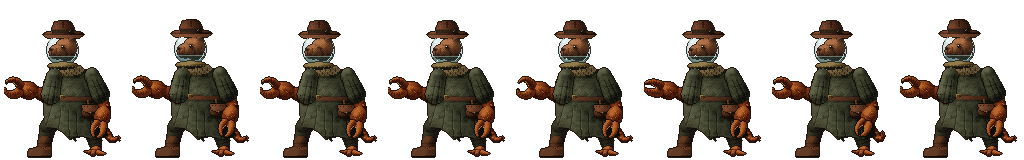
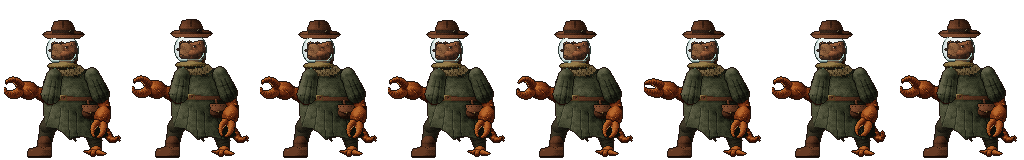
fix: Phor's head reads as a capybara and sits on his neck
Phor Calesta is a craybara (crayfish + capybara): his head is now a blunt,
boxy capybara head with a square muzzle, nostrils high on it and small eyes
and ears set high, carried low and forward on a thick neck that rises from
the collar ring; the water in the dome laps round the neck. Same sheet format.

diff --git a/tools/artgen/townhall_cast.py b/tools/artgen/townhall_cast.py
@@ -4,13 +4,17 @@ they are). Scale 1, origin bottom-centre, soles on the frame's bottom rows; 8 ca
 them with holds).
 
   phor      128x160, soles on y 156 -- Phor Calesta, divinographer (TownhallScene, right of the stair; GodgraveyardScene):
-            a Craybara -- a capybara's blunt head in a round diving-helmet glass dome (half full of his home water, a
-            brass neck ring), a brown leather fedora on the dome, a pleated ruff, a long moss-green coat with short
+            a Craybara (crayfish + capybara) -- an unmistakable capybara's head in near-profile: a big blunt box with a
+            flat top, a deep square muzzle with the nostrils high on its top corner, a small placid half-lidded eye set
+            high and far back, small round ears, coarse reddish-brown fur, the dark morrillo gland of a grown male on
+            the snout -- carried low and forward on a short thick neck inside a round diving-helmet glass dome (his home
+            water lapping round the neck under the chin, a bronze neck ring),
+            a brown leather fedora on the dome, a pleated ruff, a long moss-green coat with short
             sleeves, a belt with a brass buckle and a leather satchel; huge orange crayfish forearms and claws (the near
             one raised, open), one booted foot and one bare crayfish foot, a segmented tail behind. Turned to the
             viewer's left.
-            0 rest  1 inhale  2 blink  3-5 a bubble leaves his nostril and rises through the dome water (4: the raised
-            claw opens wider, 5: it snips shut)  6 the tail tip flicks, the hanging claw twitches  7 exhale
+            0 rest  1 inhale  2 blink  3-5 a bubble rises from under his chin through the dome water and breaks (4: the
+            raised claw opens wider, 5: it snips shut)  6 the tail tip flicks, the hanging claw twitches  7 exhale
   clerk     128x160, soles on y 156 -- the Townhall clerk (TownhallInteriorScene): a short, scruffy, tired bureaucrat --
             wild brown hair under a battered pillbox hat with a lit candle stuck on it (wax running down the hat), round
             brass-rimmed spectacles, a stubbled scowl, a grubby shirt and cravat, a brown waistcoat with a watch chain,
@@ -119,7 +123,8 @@ def sheet(frames, path):
 
 
 # ================================================================================================= PHOR CALESTA
-FUR    = R('#1c0e07 #2a150b #3a1e0f #4b2814 #5d3219 #6f3d1f #814926 #92552e #a26338 #b07244')
+FUR    = R('#1a0d07 #28140b #371c10 #472515 #582f1a #693920 #7a4427 #8a4f2e #995b36 #a6683f')
+MUZ    = R('#2a170e #3b2214 #4e2e1b #613b22 #73482a #845533 #93623c #a17046')
 SHELLC = R('#1e0a05 #2e1007 #40170a #52200d #642a10 #763414 #883f18 #994b1d #a85823 #b6672d')
 GCOAT  = R('#0e0e09 #15160f #1c1e14 #24271a #2d3020 #363927 #40422e #4a4c36 #55563f #626149')
 GTROU  = R('#0e0d09 #15130d #1c1a12 #242117 #2d291d #363123 #403a2a')
@@ -131,7 +136,8 @@ WATER  = (58, 104, 98)
 GLASS  = (196, 222, 214)
 PUPIL  = (16, 10, 8)
 
-MP = {'fur': mat(FUR, 'pelt', 0.24, 0.05), 'shell': mat(SHELLC, 'shell', 0.2, 0.55), 'coat': mat(GCOAT, 'worn', 0.17),
+rig.TEX['coarse'] = lambda x, y: ((rig.nF(x * 1.6, y * 0.7) - 0.5) * 0.13 + (rig.nM(x * 0.9, y * 0.9) - 0.5) * 0.06)   # short bristly fur
+MP = {'fur': mat(FUR, 'coarse', 0.2, 0.05), 'muzzle': mat(MUZ, 'coarse', 0.22, 0.05), 'shell': mat(SHELLC, 'shell', 0.2, 0.55), 'coat': mat(GCOAT, 'worn', 0.17),
       'trou': mat(GTROU, 'fabric', 0.18), 'ruff': mat(RUFF, 'fabric', 0.28), 'leather': mat(LEATH, 'leather', 0.2, 0.3),
       'hat': mat(LEATH, 'felt', 0.2, 0.08), 'brass': mat(BRONZE, 'metal', 0.24, 0.8), 'boot': mat(LEATH[:-2], 'leather', 0.18, 0.5)}
 
@@ -226,38 +232,87 @@ def bell_sleeve(r, sh, end, r0, r1, g, lift=0.0, m=None):
         r.darken(x, y, 0.18)
 
 
+def boxy(r, cx, cy, rx, ry, p, m, lift=0.0, group=None, vfun=None, rot=0.0, zk=1.2):
+    """a superellipsoid (|u|^p + |w|^p <= 1): a rounded box -- flat faces, softly rounded edges and corners"""
+    oid = r.new(group)
+    c, s = math.cos(rot), math.sin(rot)
+    R = max(rx, ry) * 1.1 + 2
+    for y in range(int(cy - R), int(cy + R) + 1):
+        for x in range(int(cx - R), int(cx + R) + 1):
+            dx, dy = x + 0.5 - cx, y + 0.5 - cy
+            u, w = (dx * c + dy * s) / rx, (-dx * s + dy * c) / ry
+            f = abs(u) ** p + abs(w) ** p
+            if f > 1: continue
+            z = (1 - f) ** (1 / p)
+            gu, gw = math.copysign(abs(u) ** (p - 1), u), math.copysign(abs(w) ** (p - 1), w)
+            n = norm((gu * c - gw * s, gu * s + gw * c, z * zk))
+            v = r.shade(m, n, lift) + (vfun(x, y, u, w) if vfun else 0)
+            r.put(x, y, m, v, oid)
+    return oid
+
+
 def phor_head(r, hx, hy, P):
-    """the capybara head, facing the viewer's left (hx, hy = the cranium's centre)"""
+    """a capybara's head in near-profile, facing the viewer's left (hx, hy = the head's middle): one big blunt box --
+    a flat top running almost level from the ears to the nose, a deep, square, heavy muzzle (a touch lighter) squared
+    off at the front, the nostrils high on its top corner, the small mouth low at its front; the heavy cheek under a
+    small round eye set high and far back, small round ears high on the skull, coarse short reddish-brown fur; calm and
+    half-lidded. It sits inside the dome with clear glass round it, so its silhouette reads against the glass."""
     blink = P.get('blink')
-    fv = lambda x, y, u, w: (-0.14 if w > 0.55 else 0) + (0.06 if w < -0.5 else 0)
-    r.ellipsoid(hx + 1.5, hy + 7.0, 8.5, 5.4, MP['fur'], lift=-0.14, group='pjaw')                 # the heavy jowl
-    r.ellipsoid(hx, hy, 10.6, 9.6, MP['fur'], group='pskull', vfun=fv)
-    r.ellipsoid(hx - 8.0, hy + 3.6, 8.4, 7.0, MP['fur'], rot=-0.12, lift=0.03, group='psnout', vfun=fv)  # the blunt muzzle
-    r.ellipsoid(hx - 12.6, hy + 4.0, 4.0, 5.8, MP['fur'], lift=0.07, group='psnout', vfun=fv)         # its square front
-    r.ellipsoid(hx + 6.0, hy - 9.0, 3.0, 2.6, MP['fur'], lift=0.04, group='pear')                    # a small round ear
-    for (x, y, c) in ((hx + 5, hy - 9, FUR[2]), (hx + 6, hy - 9, FUR[1]), (hx + 5, hy - 8, FUR[3]), (hx + 7, hy - 10, FUR[7])):
+    fur = MP['fur']
+    coarse = lambda x, y, u, w: (-0.08 if h32(x, y >> 1, 61) % 11 == 0 else 0) + (0.05 if h32(x, y, 62) % 13 == 0 else 0)
+    top = hy - 7.0                                                                       # the flat top line
+    # the short, thick neck: as wide as the back half of the head, rising out of the collar ring (clipped at the ring
+    # so it never spills over the ruff) straight into the back and underside of the skull -- solid fur, no glass between
+    neck_v = lambda u, sd: (-0.14 if sd > 0.55 else 0) + (0.06 if sd < -0.5 else 0) + (-0.1 if (int(u * 14) + int(sd * 3)) % 4 == 0 else 0)
+    r.tube((hx + 4.5, hy + 1.5), (hx + 2.5, hy + 17.5), 7.8, 8.4, fur, group='pneck', folds=neck_v, clip=lambda x, y: y <= hy + 16.5)
+    r.ellipsoid(hx + 0.5, hy + 6.8, 6.4, 4.2, fur, lift=-0.05, group='pneck')                        # the throat under the jaw
+    r.ellipsoid(hx + 9.0, top + 0.6, 1.9, 1.9, fur, lift=-0.24, group='pearF')                       # the far ear
+    boxy(r, hx + 1.0, hy - 0.5, 10.6, 6.5, 3.4, fur, lift=0.05, group='pskull', rot=-0.03,
+         vfun=lambda x, y, u, w: coarse(x, y, u, w) + (0.05 if w < -0.55 else 0) - (0.1 if u > 0.72 else 0) - max(0.0, w - 0.2) * 0.2)
+    boxy(r, hx - 7.4, hy + 1.0, 5.7, 7.6, 5.0, MP['muzzle'], lift=0.1, group='psnout', rot=-0.03,
+         vfun=lambda x, y, u, w: coarse(x, y, u, w) * 0.7 - max(0.0, w - 0.35) * 0.3 + (0.05 if w < -0.6 else 0))   # deep and square
+    r.ellipsoid(hx + 1.5, hy + 3.6, 6.6, 3.7, fur, lift=-0.06, group='pjaw', vfun=coarse)            # the heavy cheek
+    # the near ear: small and round, high at the back of the skull, dark inside
+    ax, ay = hx + 6.6, top + 0.4
+    r.ellipsoid(ax, ay, 2.5, 2.3, fur, lift=0.04, group='pear')
+    for (x, y, c) in ((ax - 0.5, ay + 0.5, FUR[1]), (ax + 0.5, ay + 0.5, FUR[2]), (ax - 0.5, ay - 0.5, FUR[3]), (ax - 1.5, ay - 1.5, FUR[8])):
         r.fixed(x, y, c)
-    # the nose pad high on the muzzle's front, the nostril slit, the split upper lip, the mouth line
-    nx, ny = int(hx - 16), int(hy + 1)
-    for (dx, dy, c) in ((0, 0, FUR[1]), (1, 0, FUR[1]), (2, 0, FUR[3]), (3, 0, FUR[4]), (0, 1, FUR[0]), (1, 1, FUR[1]), (2, 1, FUR[2]),
-                        (1, -1, FUR[4]), (2, -1, FUR[5]), (3, -1, FUR[6]), (0, -1, FUR[3])):
-        r.fixed(nx + dx, ny + dy, c)
-    for k in range(2, 6): r.fixed(nx + 1, ny + k, FUR[2] if k < 4 else FUR[1])
-    for dx in range(1, 8): r.fixed(nx + dx, ny + 6 + (1 if dx > 5 else 0), FUR[1])
-    r.fixed(nx + 2, ny + 7, FUR[4]); r.fixed(nx + 3, ny + 8, FUR[3])
-    for (x, y) in ((nx + 4, ny + 3), (nx + 6, ny + 2), (nx + 5, ny + 4), (nx + 7, ny + 4)): r.fixed(x, y, FUR[3])  # whisker pores
-    # the eye: small, black, set high on the side of the head, a wet glint, a soft lid above
-    ex, ey = int(hx - 4), int(hy - 2)
+    fx = hx - 13.1                                                                      # the muzzle's blunt front
+    # the nostrils: dark slits high on the top corner of the muzzle (the far one a dot), the nose's top lit
+    for (dx, dy, c) in ((0.6, -5.5, FUR[0]), (0.6, -6.5, FUR[0]), (1.6, -6.8, FUR[0]), (2.6, -7.0, FUR[1]), (1.6, -5.8, FUR[2]),
+                        (4.6, -7.2, FUR[1]), (5.4, -7.2, FUR[2])):
+        r.fixed(fx + dx, hy + dy, c)
+    # the morrillo: the dark, bare scent gland a grown male capybara carries on top of his snout
+    for (dx, c) in ((7.6, FUR[1]), (8.6, FUR[0]), (9.6, FUR[0]), (10.6, FUR[1]), (11.6, FUR[2])):
+        r.fixed(fx + dx, top + 0.2 + (dx - 7.6) * 0.03, c)
+    for (dx, c) in ((8.6, FUR[2]), (9.6, FUR[3]), (10.6, FUR[2])):
+        r.fixed(fx + dx, top + 1.2, c)
+    r.fixed(fx + 9.6, top - 0.6, FUR[4])
+    r.fixed(fx + 2.6, hy - 7.6, MUZ[7]); r.fixed(fx + 0.6, hy - 7.4, MUZ[6])
+    # the cleft lip down the blunt front, the small mouth low on it, the crease of the chin
+    for k in range(4): r.fixed(fx + 0.6, hy - 4.5 + k, MUZ[2] if k < 3 else MUZ[1])
+    for dx in range(0, 4): r.fixed(fx + 0.6 + dx, hy + 4.5 + (1 if dx > 1 else 0), MUZ[0])
+    r.fixed(fx + 1.6, hy + 5.5, MUZ[5])
+    for dx in range(4, 10): r.fixed(fx + dx, hy + 8.0, MUZ[1])
+    for (dx, dy) in ((3, -3), (5, -2), (4, -0.5), (6, -0.5)): r.fixed(fx + dx, hy + dy, MUZ[3])   # whisker pores
+    for k in range(3): r.fixed(fx - 0.4 - k, hy - 1 + k * 0.6, (52, 36, 26))                     # a sparse whisker
+    for k in range(9):                                                                  # the long lip line: from the mouth
+        x, y = fx + 2 + k * 1.1, hy + 5.2 - k * 0.45                                    # corner back under the cheek
+        r.darken(x, y, 0.16); r.darken(x, y + 1, -0.06)
+    # the eye: small, round, set high and far back; the heavy lid half down -- placid
+    ex, ey = int(hx + 1), int(hy - 4)
     if blink:
-        r.fixed(ex - 1, ey + 1, FUR[3]); r.fixed(ex, ey + 1, FUR[2]); r.fixed(ex + 1, ey + 1, FUR[2]); r.fixed(ex + 2, ey + 1, FUR[3])
-        r.fixed(ex, ey, FUR[5]); r.fixed(ex + 1, ey, FUR[5])
+        for dx in range(-1, 2): r.fixed(ex + dx, ey + 1, FUR[1])
+        r.fixed(ex, ey, FUR[5])
     else:
-        for (dx, dy) in ((0, 0), (1, 0), (0, 1), (1, 1), (-1, 1), (2, 1), (0, 2), (1, 2)): r.fixed(ex + dx, ey + dy, PUPIL)
-        r.fixed(ex, ey, (224, 216, 196)); r.fixed(ex + 1, ey + 2, (44, 28, 20))
-        for dx in range(-1, 3): r.fixed(ex + dx, ey - 1, FUR[2])
-    r.fixed(ex + 3, ey + 3, FUR[3]); r.fixed(ex - 2, ey + 3, FUR[7])
-    for (x, y) in ((hx - 3, hy - 8), (hx + 1, hy - 9), (hx - 7, hy - 5), (hx + 3, hy - 6), (hx - 10, hy - 2)):  # lit tufts
-        r.fixed(x, y, FUR[8])
+        for dx in range(-1, 2): r.fixed(ex + dx, ey, FUR[1])                                      # the lid's lash line
+        r.fixed(ex - 1, ey + 1, (196, 184, 162)); r.fixed(ex, ey + 1, PUPIL); r.fixed(ex + 1, ey + 1, (30, 18, 12))
+        r.fixed(ex, ey + 2, (36, 22, 15))
+    r.fixed(ex - 1, ey + 2, FUR[6]); r.fixed(ex - 1, ey + 3, FUR[7]); r.fixed(ex, ey + 3, FUR[7]); r.fixed(ex + 1, ey + 2, FUR[3])
+    r.fixed(ex - 1, ey - 1, FUR[8]); r.fixed(ex, ey - 1, FUR[8]); r.fixed(ex + 1, ey - 1, FUR[7])   # the brow ridge
+    # coarse fur catching the light along the flat top
+    for x in range(int(hx - 13), int(hx + 9), 2):
+        if h32(x, 3) % 3: r.fixed(x, int(top + 0.8 + (x - hx) * 0.03), FUR[9] if x < hx else FUR[8])
 
 
 def phor(P):
@@ -368,7 +423,7 @@ def phor(P):
     for k in range(11):                                                           # the pleats' scalloped lower edge
         x = 47.5 + k * 3.2
         r.fixed(x, U(75) + (1 if k % 2 else 0) - (1 if k in (0, 10) else 0), RUFF[1])
-    hx, hy = 62, U(48)
+    hx, hy = 61, U(50.5)                                                       # low and forward on the neck
     phor_head(r, hx, hy, P)
     r.ellipsoid(59, U(66), 15.5, 3.6, MP['brass'], group='ring',
                 vfun=lambda x, y, u, w: (-0.28 if w > 0.3 else 0) + (0.16 if w < -0.4 else 0))
@@ -418,7 +473,7 @@ def phor(P):
     behind = {(x, y) for (x, y) in inside if group_at(r, x, y) in over}
     im = warm_ink(r.render())
     px = im.load()
-    wl = int(U(56))                                                               # the water line: up to his mouth
+    wl = int(U(60))                                                               # the water line: laps round his neck
     for (x, y), d in inside.items():
         if (x, y) in behind or not (0 <= x < W and 0 <= y < H): continue
         c = px[x, y]
@@ -429,14 +484,14 @@ def phor(P):
             else: px[x, y] = mix(GLASS, (120, 150, 146), e) + (int(24 + 96 * e ** 3),)
         else:                                                                      # the head behind the glass
             col = c[:3]
-            col = mix(col, WATER, 0.34) if under else mix(col, GLASS, 0.05)
+            col = mix(col, WATER, 0.28) if under else mix(col, GLASS, 0.05)
             px[x, y] = col + (255,)
     for x in range(int(DCX - DR), int(DCX + DR) + 1):                              # the meniscus
         if (x, wl) in inside and (x, wl) not in behind:
             c = px[x, wl]
             px[x, wl] = mix(c[:3], (170, 208, 198), 0.5) + (max(c[3], 180),)
-    if P.get('bubble'):                                                            # a bubble from the mouth corner rises
-        bx_, by_ = {1: (49.5, U(61)), 2: (50.5, U(59)), 3: (51.0, wl)}[P['bubble']]
+    if P.get('bubble'):                                                            # a bubble from under his chin rises
+        bx_, by_ = {1: (53.0, U(65)), 2: (53.5, U(62)), 3: (53.5, wl)}[P['bubble']]
         dots = ((0, -1, (214, 236, 228)), (-1, 0, (150, 190, 184)), (1, 0, (110, 150, 146)), (0, 1, (110, 150, 146)), (0, 0, (176, 214, 204)))
         if P['bubble'] == 3: dots = ((-1, 0, (206, 230, 222)), (1, 0, (206, 230, 222)), (0, -1, (226, 242, 236)))   # it breaks
         for (dx, dy, c) in dots:
@@ -1441,7 +1496,7 @@ def poet(P):
 
 # =================================================================================================== registry
 CAST = {'phor': (phor, PHOR_POSE), 'clerk': (clerk, CLERK_POSE), 'eater': (eater, EATER_POSE), 'seraphel': (seraphel, SERA_POSE), 'poet': (poet, POET_POSE)}
-GPL = ([INK, WARM_INK, PUPIL, WATER, GLASS, VERD, EYEW, INKC] + FUR + SHELLC + GCOAT + GTROU + RUFF + LEATH + BRONZE + GOLD + PAPER + FLAME
+GPL = ([INK, WARM_INK, PUPIL, WATER, GLASS, VERD, EYEW, INKC] + FUR + MUZ + SHELLC + GCOAT + GTROU + RUFF + LEATH + BRONZE + GOLD + PAPER + FLAME
        + CSKIN + CHAIR + CHAT + WAX + CSHIRT + CVEST + CCOAT + CTROU + QUILL + TOAD + BELLY + BRUISE + BRASSY + LENS + MAW + TIE + TEETH
        + ROBE + TEALC + BONE + STOLE + GILT + GEM + [WHISK] + PSKIN + PHAIR + PURP + SCARF + PTROU + IRON + GRIP + COVER + [EYEP])
 
